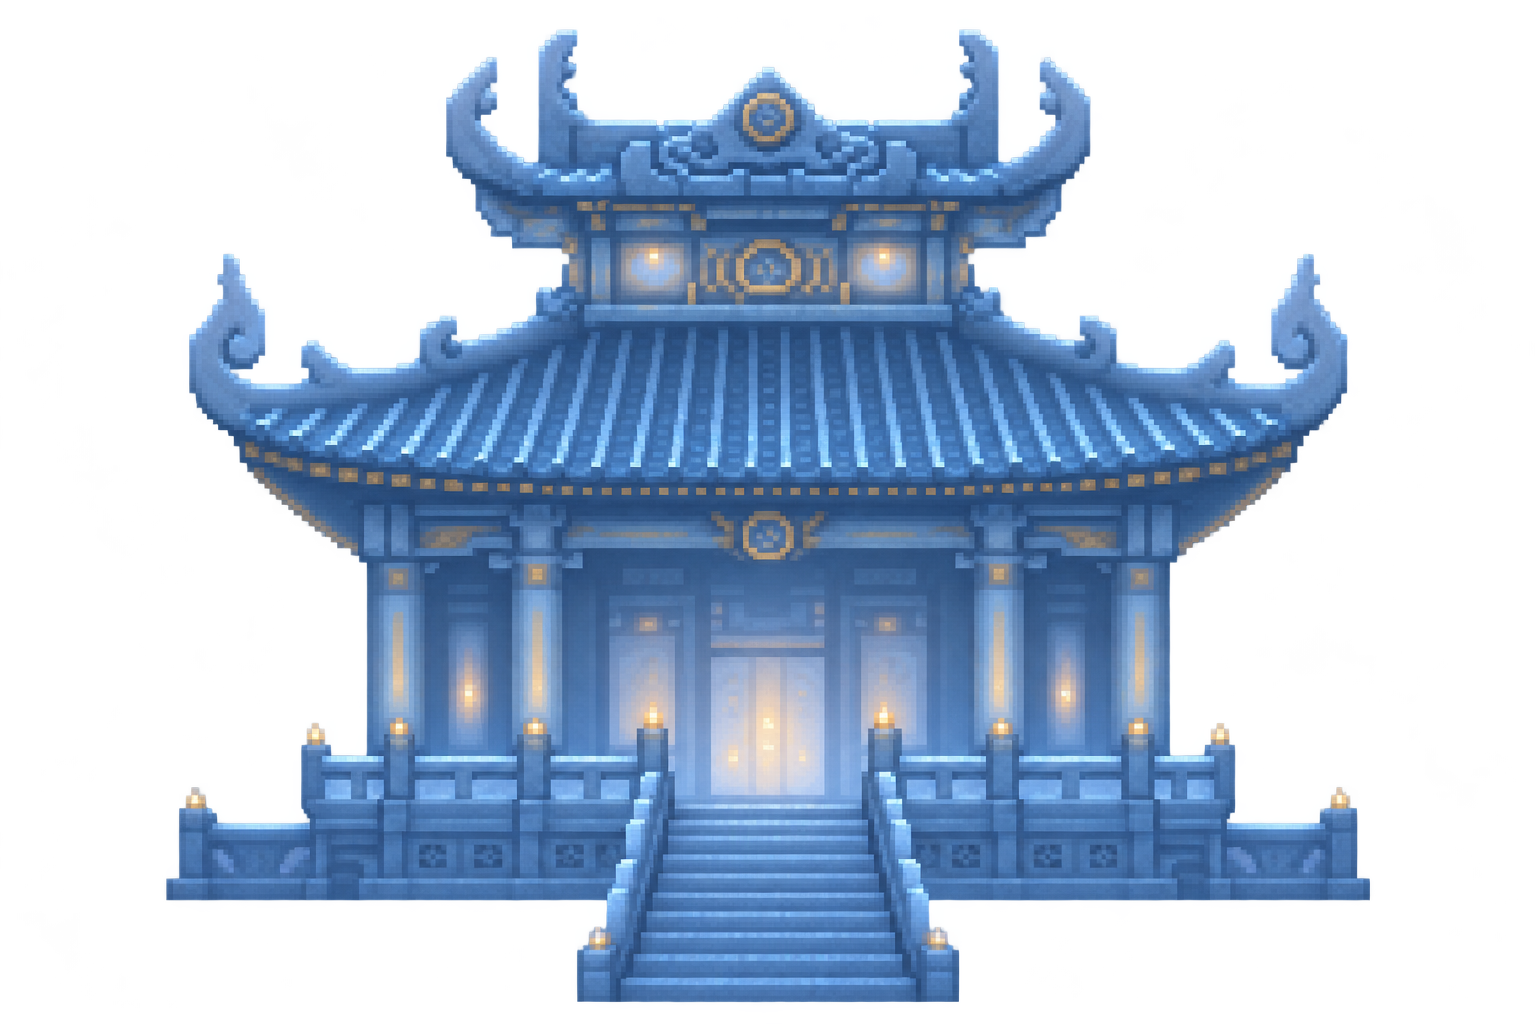
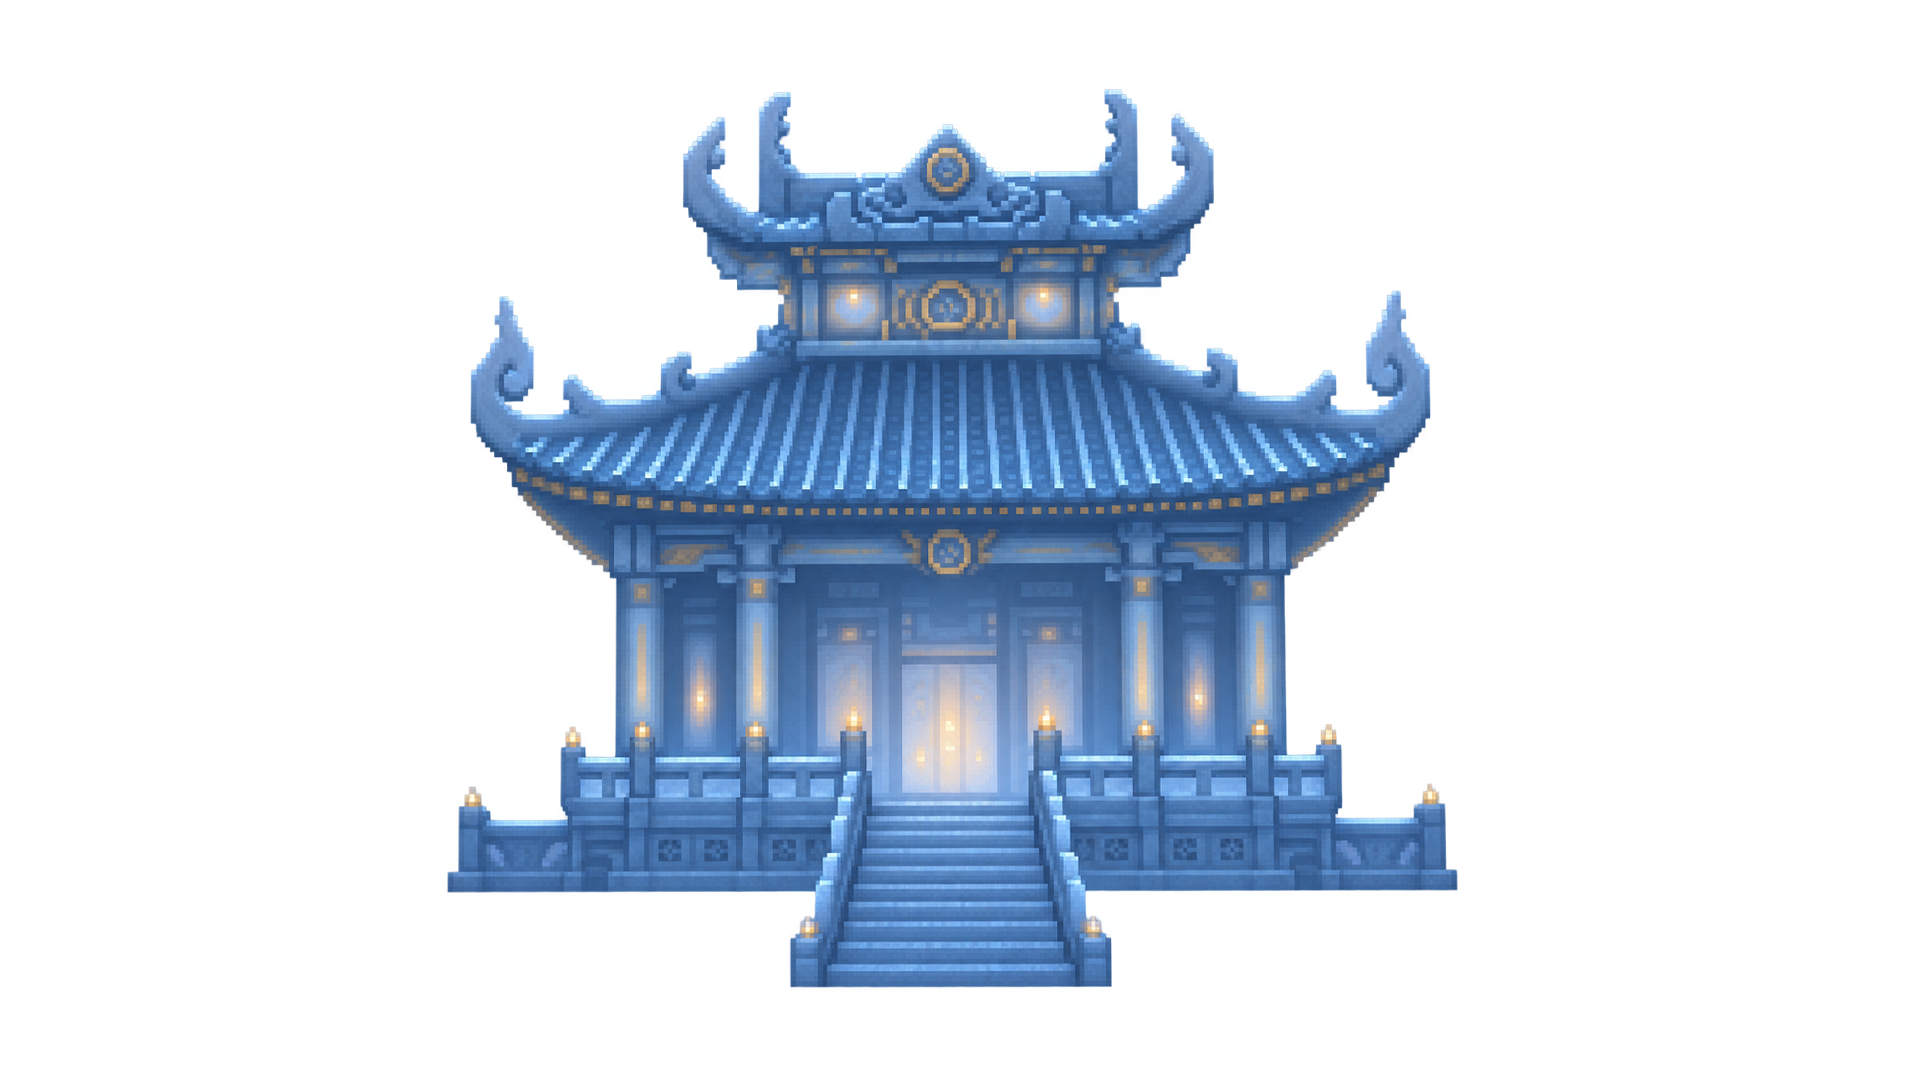
Upload updated runway backgrounds and floor art (bg3).

diff --git a/index.html b/index.html
@@ -9,7 +9,7 @@
   <link rel="preconnect" href="https://fonts.googleapis.com" />
   <link rel="preconnect" href="https://fonts.gstatic.com" crossorigin />
   <link href="https://fonts.googleapis.com/css2?family=Press+Start+2P&family=Tiny5&family=Silkscreen:wght@400;700&family=ZCOOL+QingKe+HuangYou&display=swap" rel="stylesheet" />
-  <link rel="stylesheet" href="styles.css?v=bg2" />
+  <link rel="stylesheet" href="styles.css?v=bg3" />
 </head>
 <body>
   <div id="boot" class="boot"><p class="boot-text">LOADING...</p></div>
@@ -82,13 +82,13 @@
     <section id="runway" class="runway" hidden aria-label="格斗场地">
       <div class="runway-sky" aria-hidden="true">
         <div class="run-parallax run-parallax--back" id="run-back" title="远景">
-          <div class="run-parallax__art" style="background-image:url('assets/main/main_bg1.png?v=bg2')"></div>
+          <div class="run-parallax__art" style="background-image:url('assets/main/main_bg1.png?v=bg3')"></div>
         </div>
         <div class="run-parallax run-parallax--mid" id="run-mid" title="中景">
-          <div class="run-parallax__art" style="background-image:url('assets/main/main_bg2.png?v=bg2')"></div>
+          <div class="run-parallax__art" style="background-image:url('assets/main/main_bg2.png?v=bg3')"></div>
         </div>
         <div class="run-parallax run-parallax--front" id="run-front" title="近景">
-          <div class="run-parallax__art" style="background-image:url('assets/main/main_bg3.png?v=bg2')"></div>
+          <div class="run-parallax__art" style="background-image:url('assets/main/main_bg3.png?v=bg3')"></div>
         </div>
       </div>
       <div class="runway-abyss" aria-hidden="true"></div>
@@ -178,6 +178,6 @@
     <p class="loading-page__text">LOADING...</p>
   </div>
 
-  <script src="combat.js?v=bg2"></script>
+  <script src="combat.js?v=bg3"></script>
 </body>
 </html>

diff --git a/styles.css b/styles.css
@@ -1151,7 +1151,7 @@ img, canvas {
   padding: 20px;
   background:
     linear-gradient(#061028ee, #061028f5),
-    url("assets/main/main_bg1.png?v=bg2") center / cover no-repeat;
+    url("assets/main/main_bg1.png?v=bg3") center / cover no-repeat;
   image-rendering: pixelated;
   pointer-events: auto;
   cursor: auto;
@@ -1430,7 +1430,7 @@ img, canvas {
   place-items: center;
   background:
     linear-gradient(#061028cc, #061028e6),
-    url("assets/main/main_bg1.png?v=bg2") center / cover no-repeat;
+    url("assets/main/main_bg1.png?v=bg3") center / cover no-repeat;
   pointer-events: auto;
   cursor: auto;
   animation: panel-in 0.28s ease-out;
